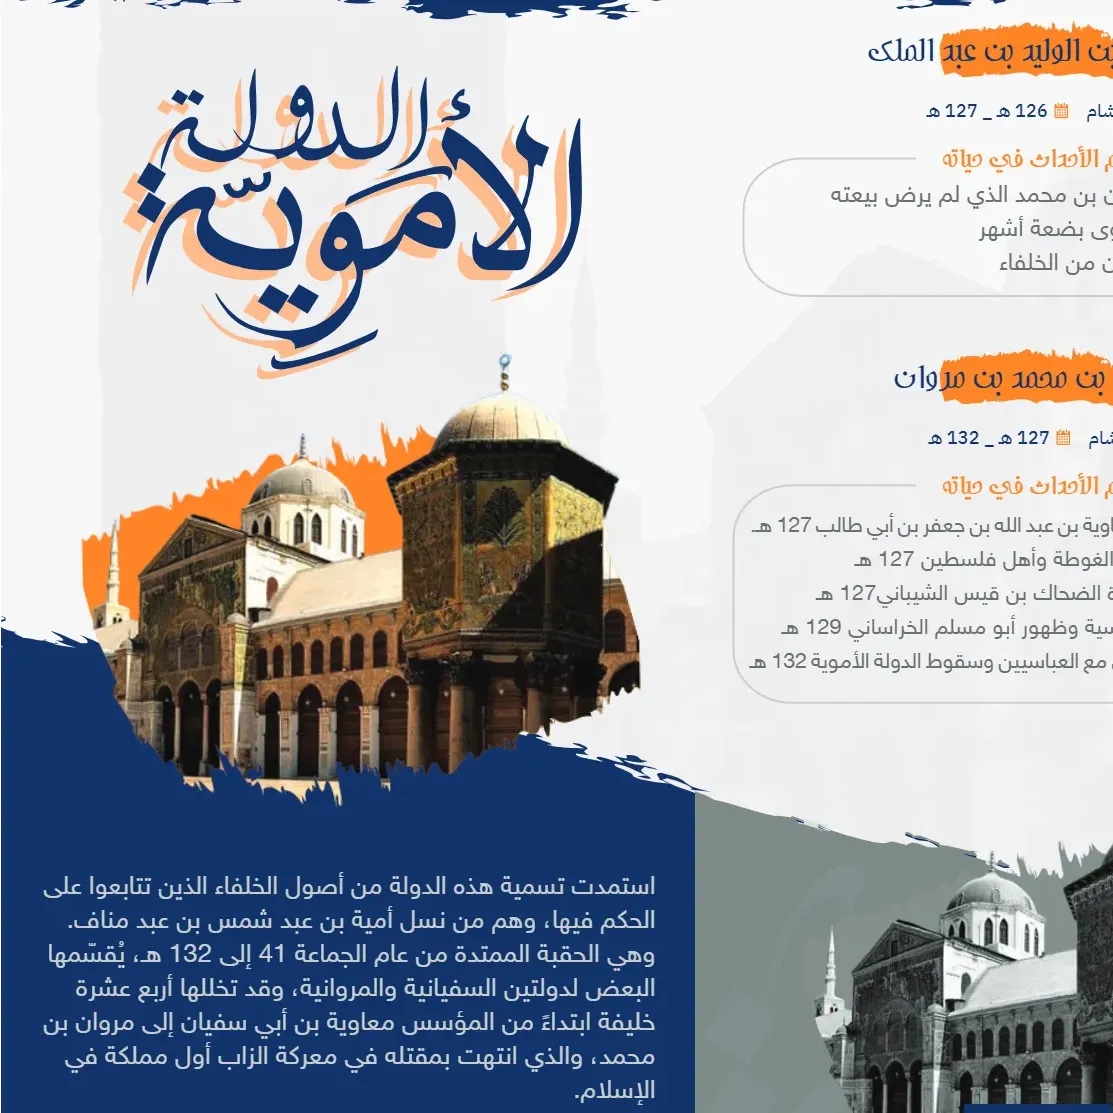
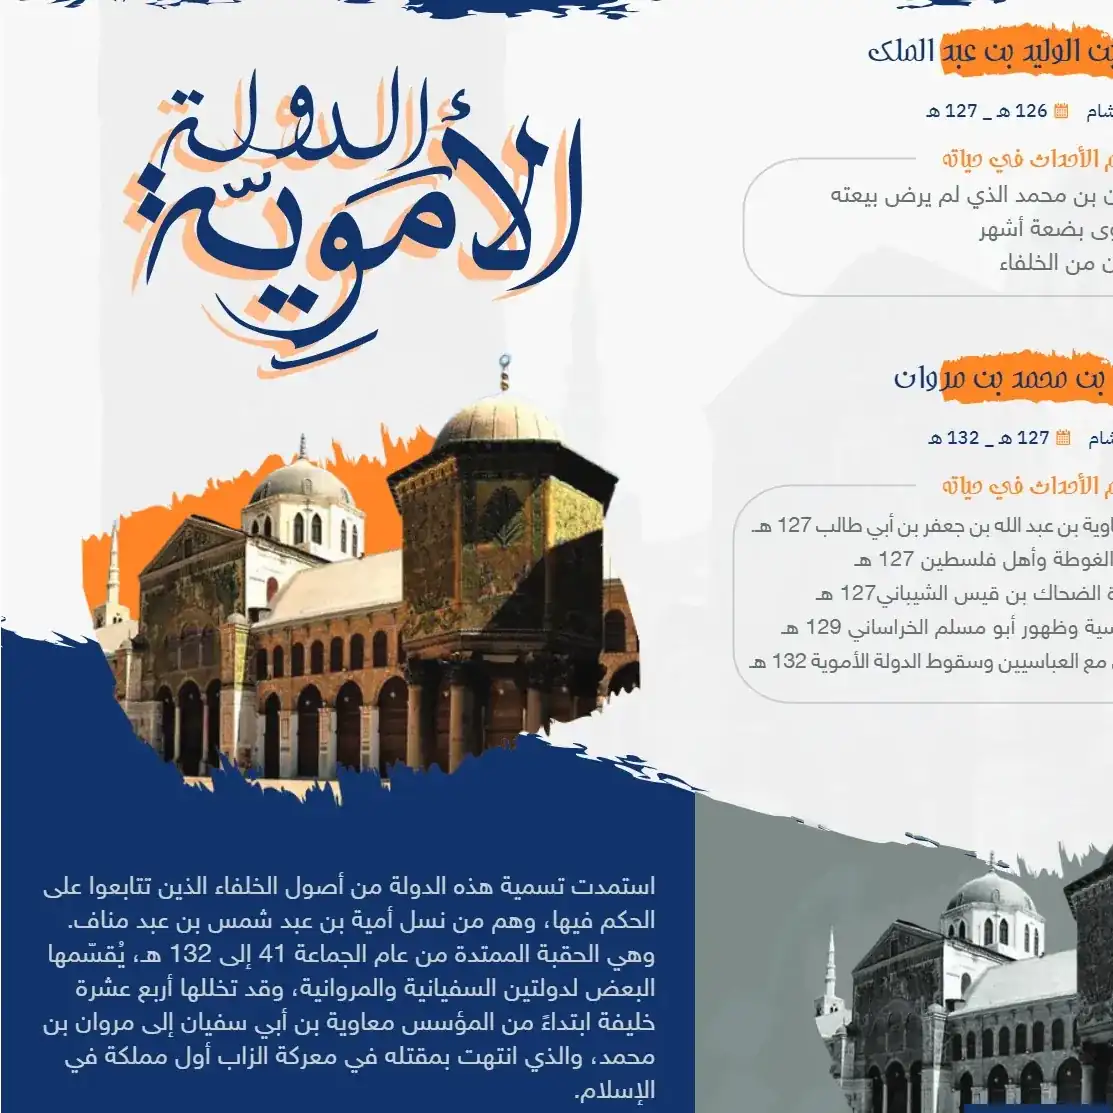
perf: compress webp images to boost performance score

diff --git a/app/layout.js b/app/layout.js
@@ -21,15 +21,14 @@ export const metadata = {
   description: 'The personal portfolio for Ahmed Almnsour.',
   icons: { icon: '/icon.svg' },
   
-  // 👇 هنا تم إضافة إعدادات العناكب (Robots)
   robots: {
-    index: false,  // (لا تؤرشف) : تمنع ظهور الصفحة في نتائج البحث
-    follow: true,  // (تجوّل) : تسمح للعناكب بالدخول وتتبع الروابط الداخلية
-    nocache: true, // (لا تخزن) : تمنع تخزين نسخة من الصفحة في ذاكرة جوجل
+    index: false,
+    follow: true,
+    nocache: true,
     googleBot: {
       index: false,
       follow: true,
-      noimageindex: true, // (اختياري) لمنع أرشفة الصور أيضاً
+      noimageindex: true,
     },
   },
 };
